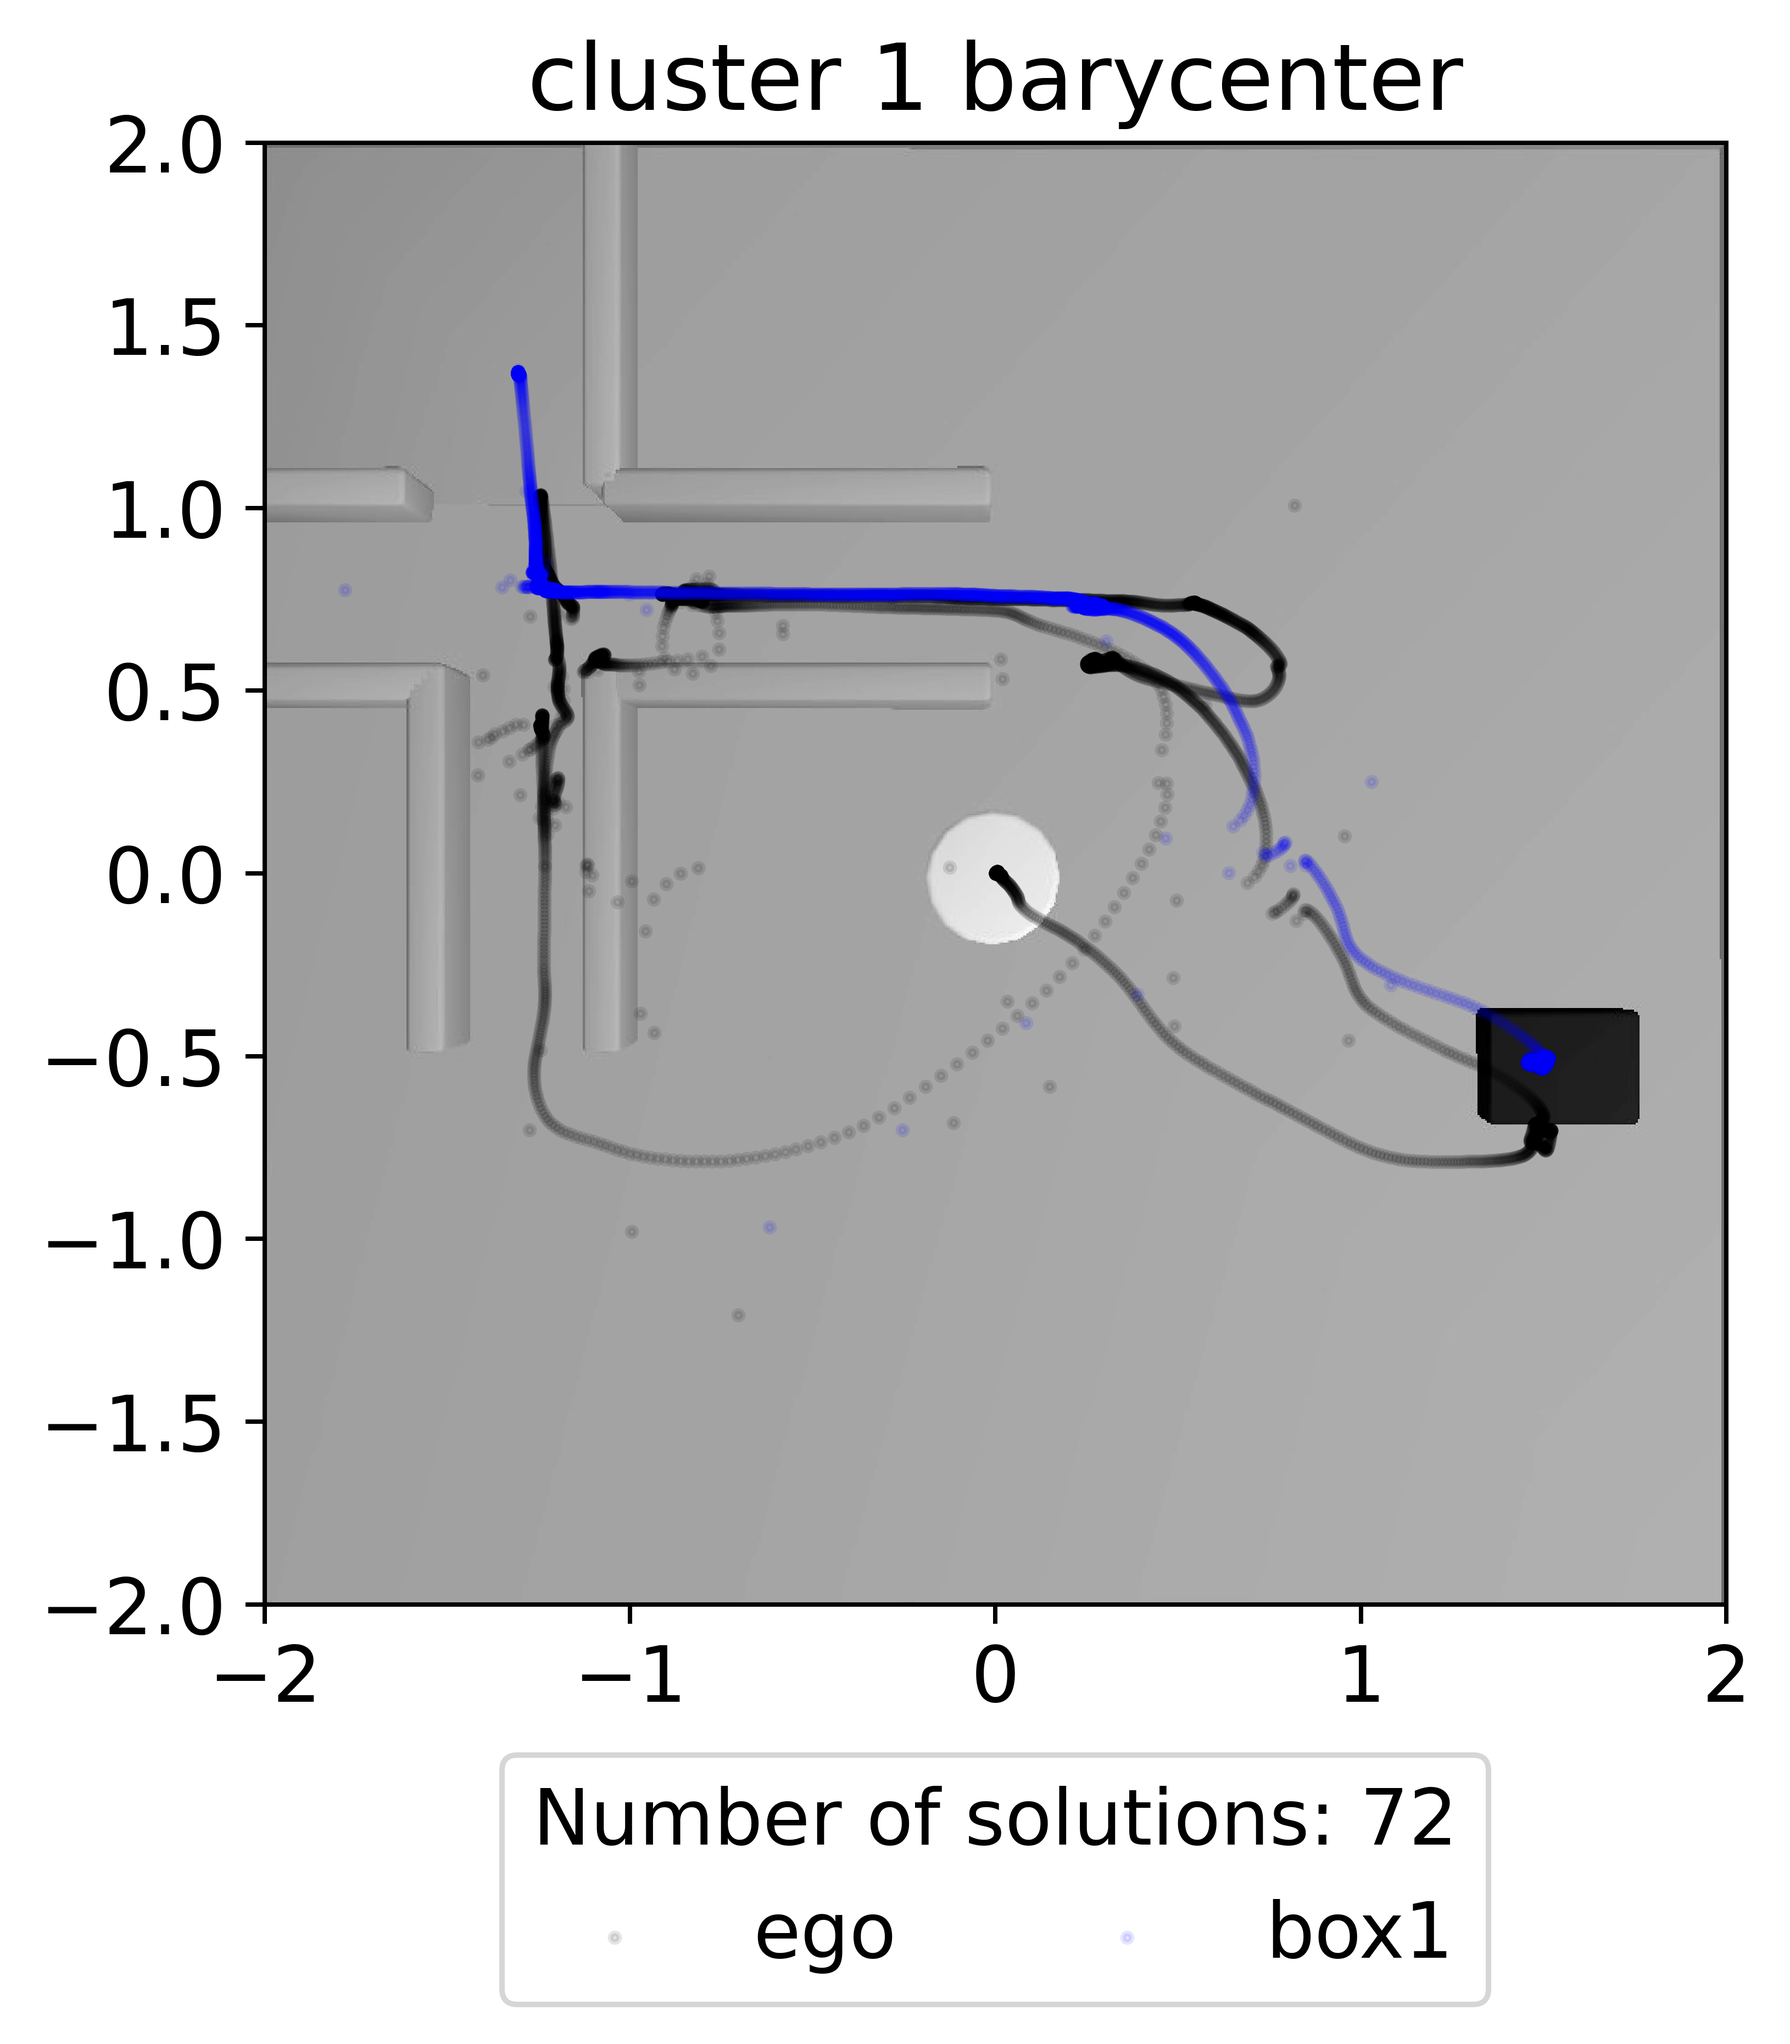
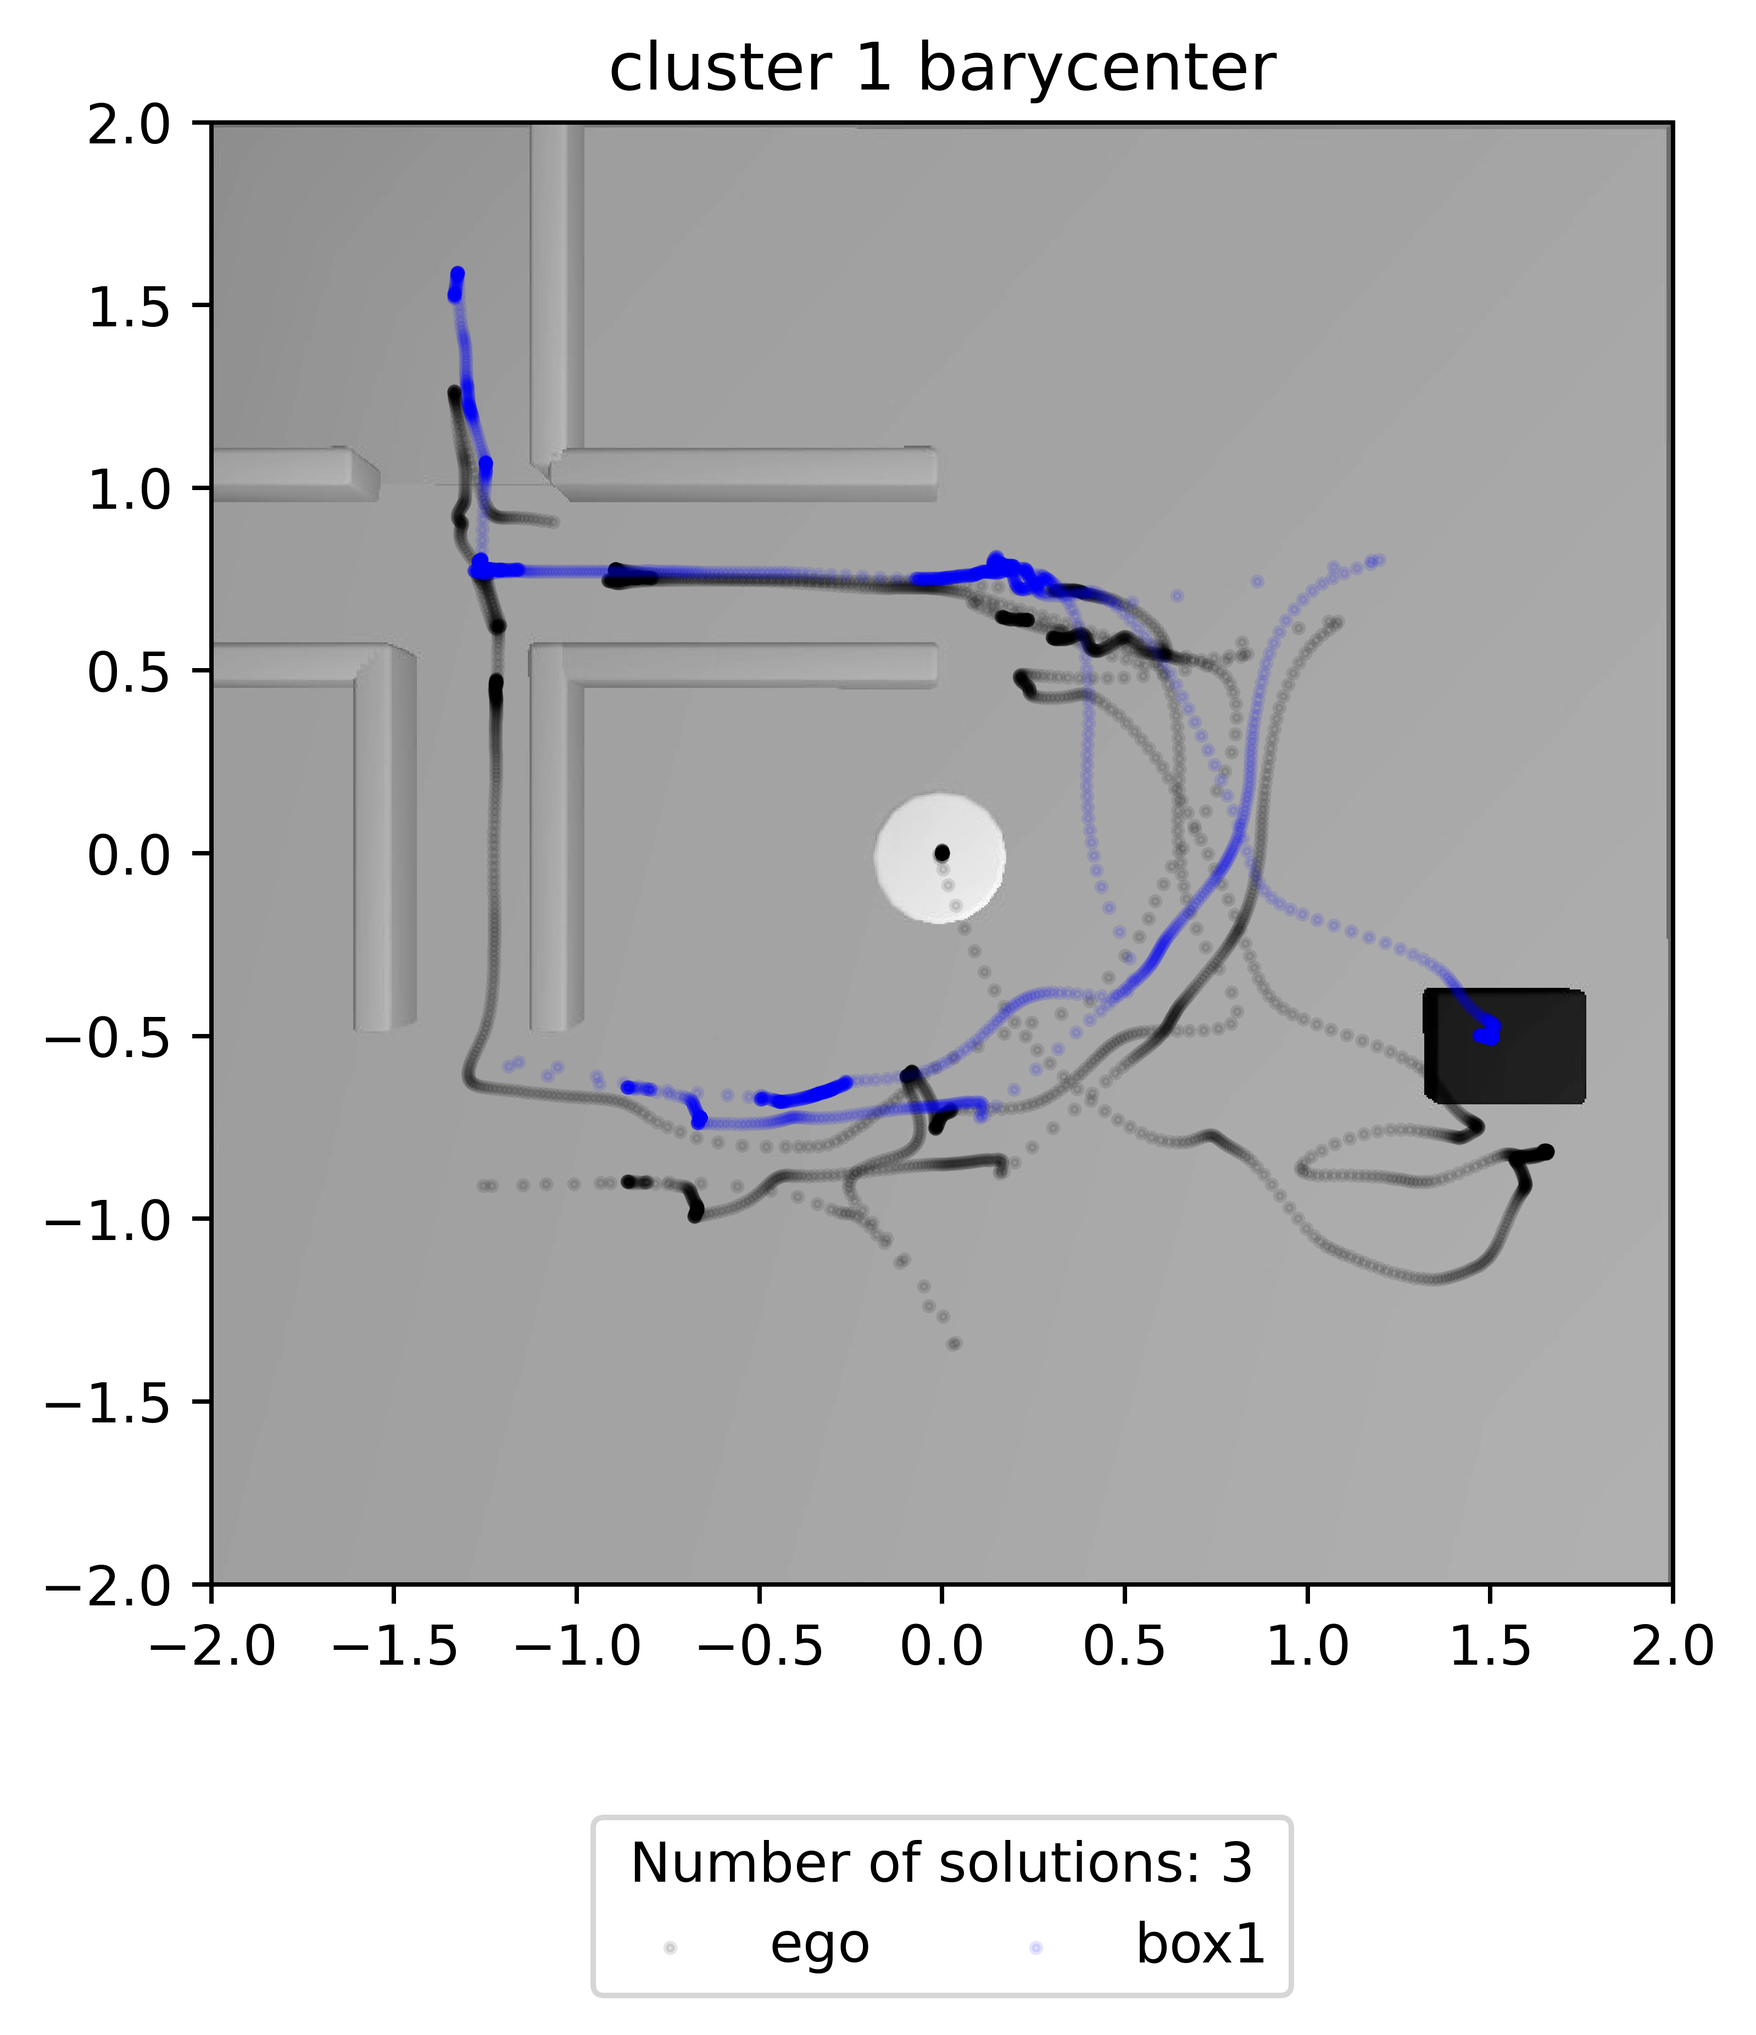
p3 Manual number of clusters

diff --git a/SRC/clusterPositionalVector.py b/SRC/clusterPositionalVector.py
@@ -332,13 +332,13 @@ def softbarycenter(cluster_id, data_ids, puzzleNumber, pathplot):
 frame_folders = ["./Data/Pilot3/Frames/", "./Data/Pilot4/Frames/"]
 
 sequence_type="POSVEC"
-puzzels = [3,4,5,6] #[21,22,23,24,25,26,16,17,18,19,20]
+puzzels = [3] #[21,22,23,24,25,26,16,17,18,19,20]
 
 log_scale = True
 ignore_Unattached_ego = True
-manual_number_of_clusters = False
+manual_number_of_clusters = True
 softdtwscore = True
-ignore_ego_visualization = True
+ignore_ego_visualization = False
 
 for puzzleNumber in puzzels:
     if softdtwscore:
